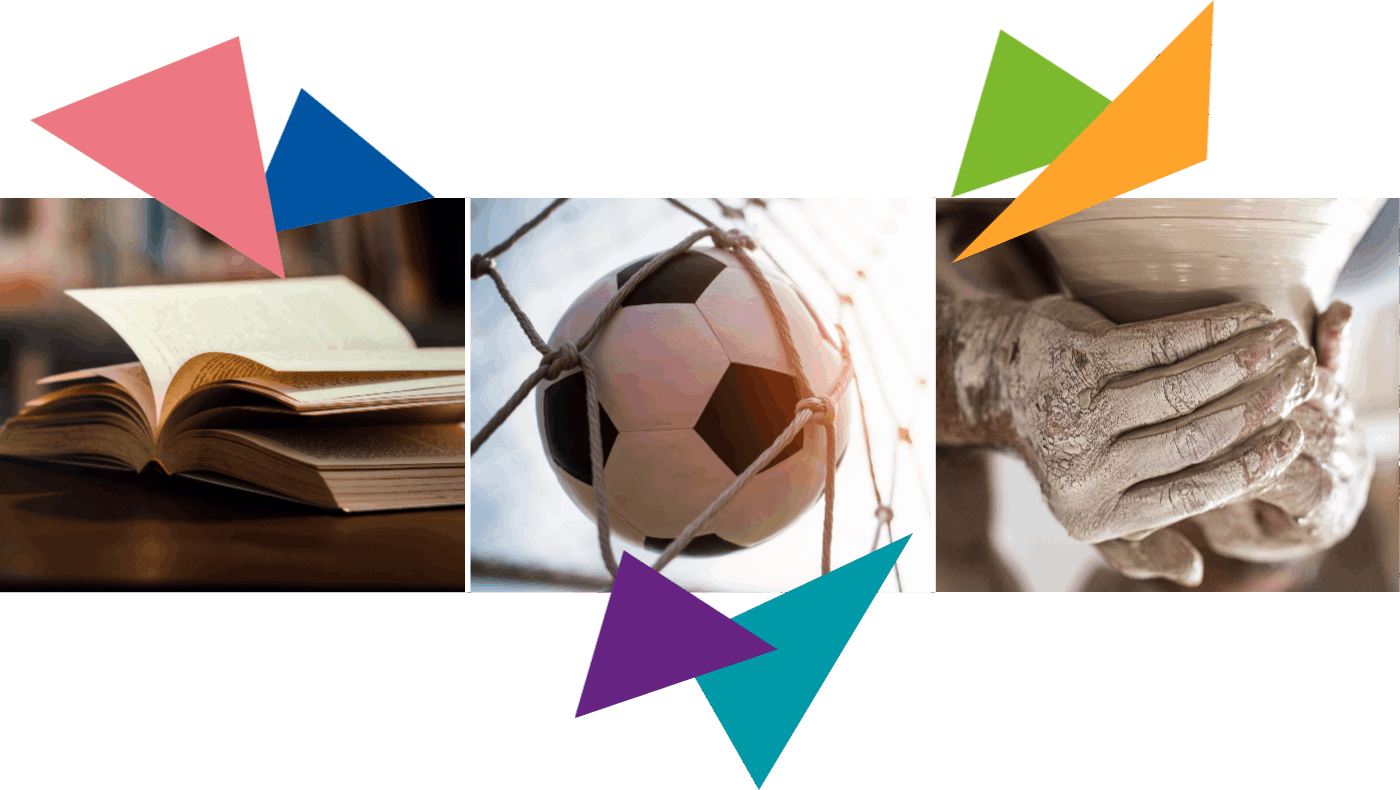
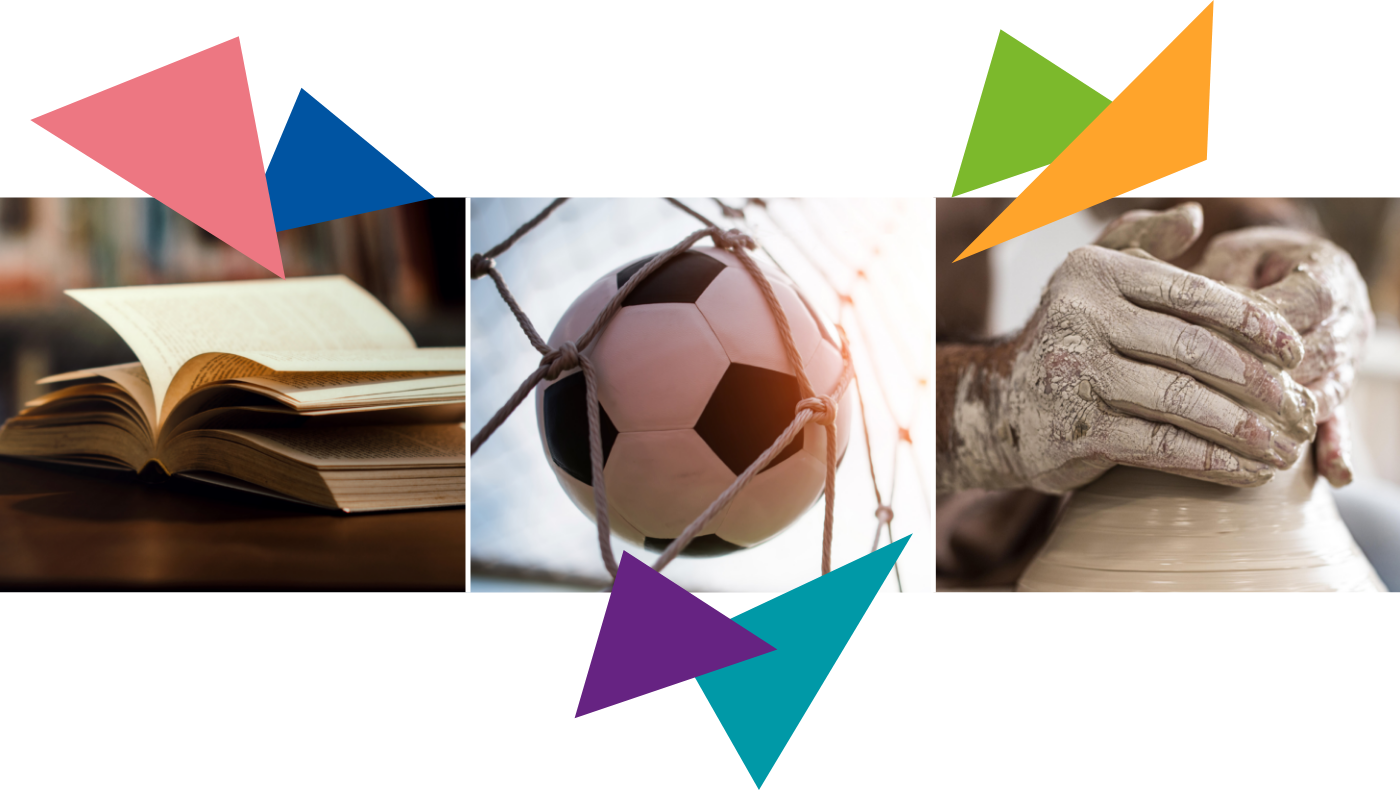
spelling improved, pics changed

Changed region(s): [[0.645, 0.243, 1.0, 0.7595], [0.2457, 0.4861, 0.2764, 0.5165]]

diff --git a/src/components/Host.js b/src/components/Host.js
@@ -13,7 +13,10 @@ const Host = () => {
             <div>
               <TextBox
                 title="Werde Host und Supporter in Moabit"
-                text="Im offenen Telegram-Kanal könnt ihr euch mit Leuten aus Moabit, die Geflüchtete unter-stützen und an Aktionen zur Überwindung von Gewalt sowie der Stärkung von Demokratie und Miteinander interessiert sind, aus-tauschen. Hier erfahrt ihr immer das Neueste a"
+                text="Im offenen Telegram Kanal könnt ihr euch mit Leuten aus Moabit, 
+                die Geflüchtete unterstützen und an Aktionen zur Überwindung von Gewalt sowie der Stärkung 
+                von Demokratie und Miteinander interessiert sind, austauschen. Hier erfahrt ihr 
+                immer das Neueste aus der Friedenskampagne Moabit.World"
               />
             </div>
             <div className="telegram-button">

diff --git a/src/components/Angebote.js b/src/components/Angebote.js
@@ -11,7 +11,7 @@ const Angebote = () => {
         <TextBox
           title="Aktiv werden im Kiez? Findet Angebote in Moabit."
           text=" Ihr habt Lust auf Töpfern, wollt im Chor singen oder sucht ein
-          Beratungscafé? Sport, ein Friedensgebet und ein Sprachkurse würden
+          Beratungscafé? Sport, ein Friedensgebet und ein Sprachkurs würden
           euch helfen? Hier findet Ihr viele Orte und Angebote in Moabit."
         />
 

diff --git a/src/components/Links.js b/src/components/Links.js
@@ -29,7 +29,8 @@ const Links = () => {
         <LinkBox
           imageURL={krisenchat}
           linkURL="https://krisenchat.de/"
-          text="Kinder und Jugendliche können sich Soforthilfe in einem Chat oder auch Ratschlägen zu verschied-enen Themen holen."
+          text="Kinder und Jugendliche können sich Soforthilfe in einem Chat oder auch Ratschlägen zu
+           verschiedenen Themen holen."
         />
       </div>
     </div>

diff --git a/src/components/Info.js b/src/components/Info.js
@@ -13,7 +13,7 @@ const Info = () => {
           unterstützen.
         </div>
         <div>
-          Moabit.World ist auch eine Vernetzungs-plattform für Menschen auf der
+          Moabit.World ist auch eine Vernetzungsplattform für Menschen auf der
           Flucht und Unterstützende hier vor Ort, die auf dieser Website
           Informationen zum Ankommen und Leben in Moabit finden können.
         </div>
